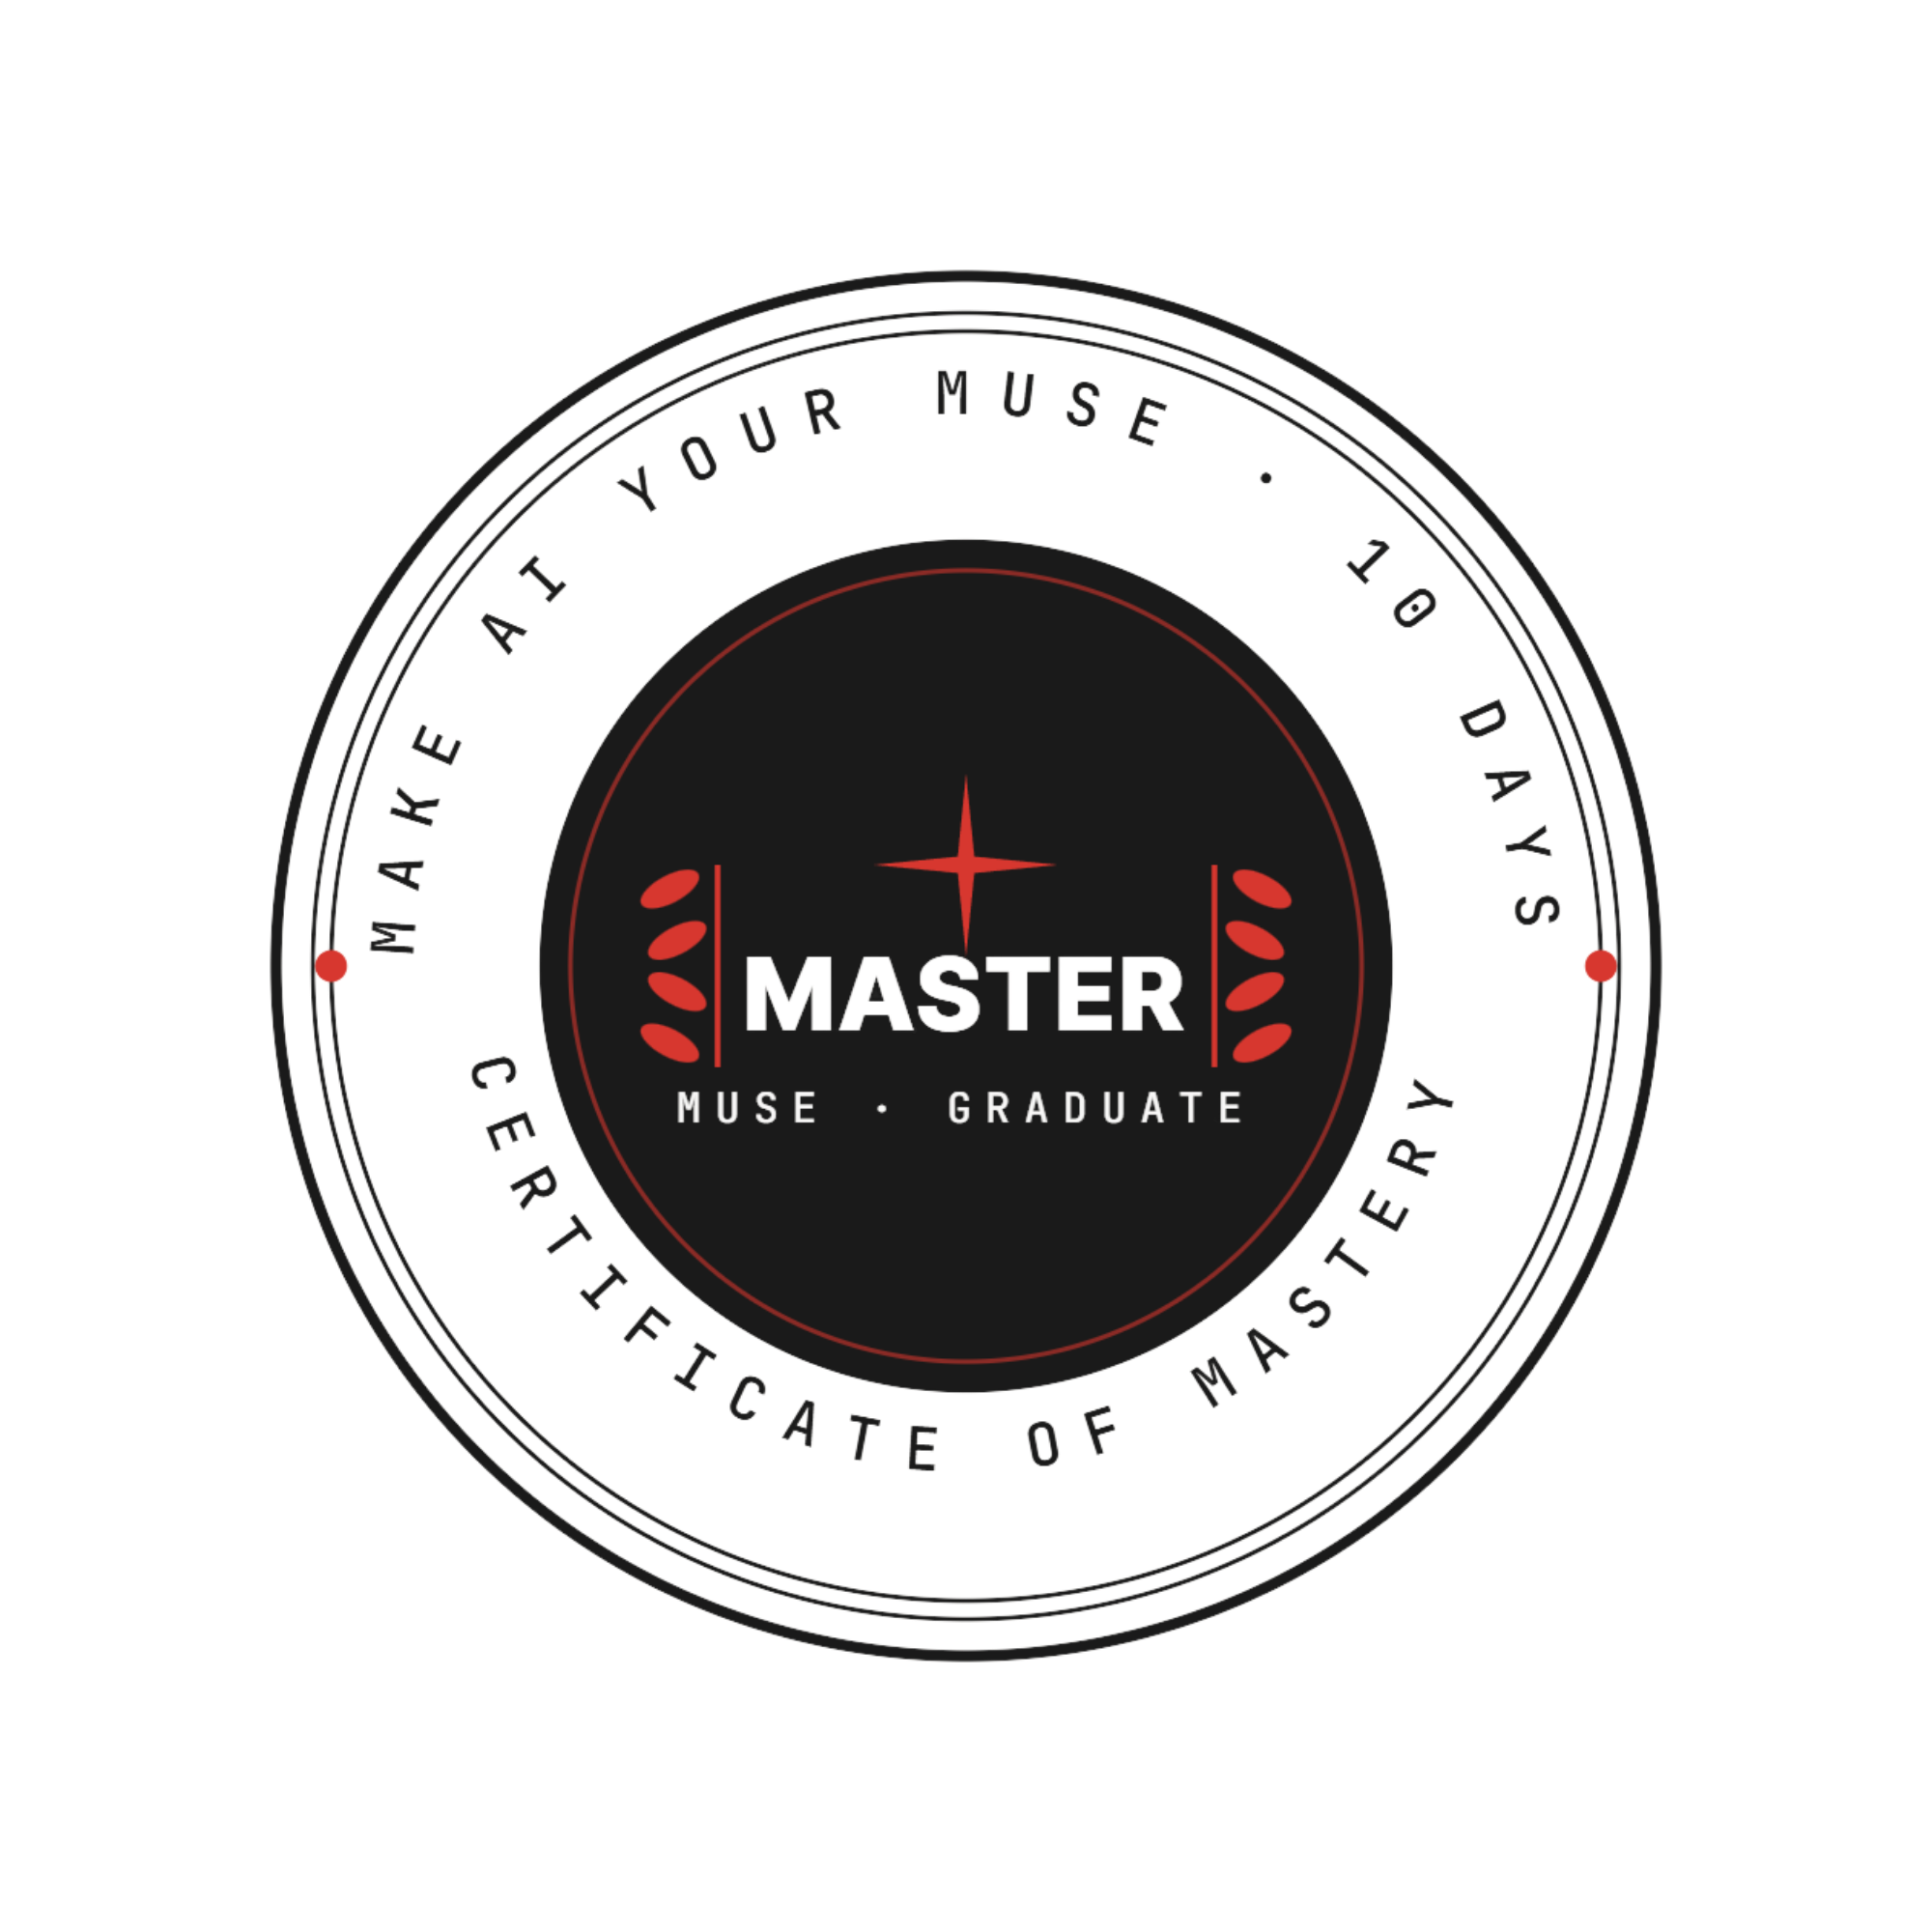
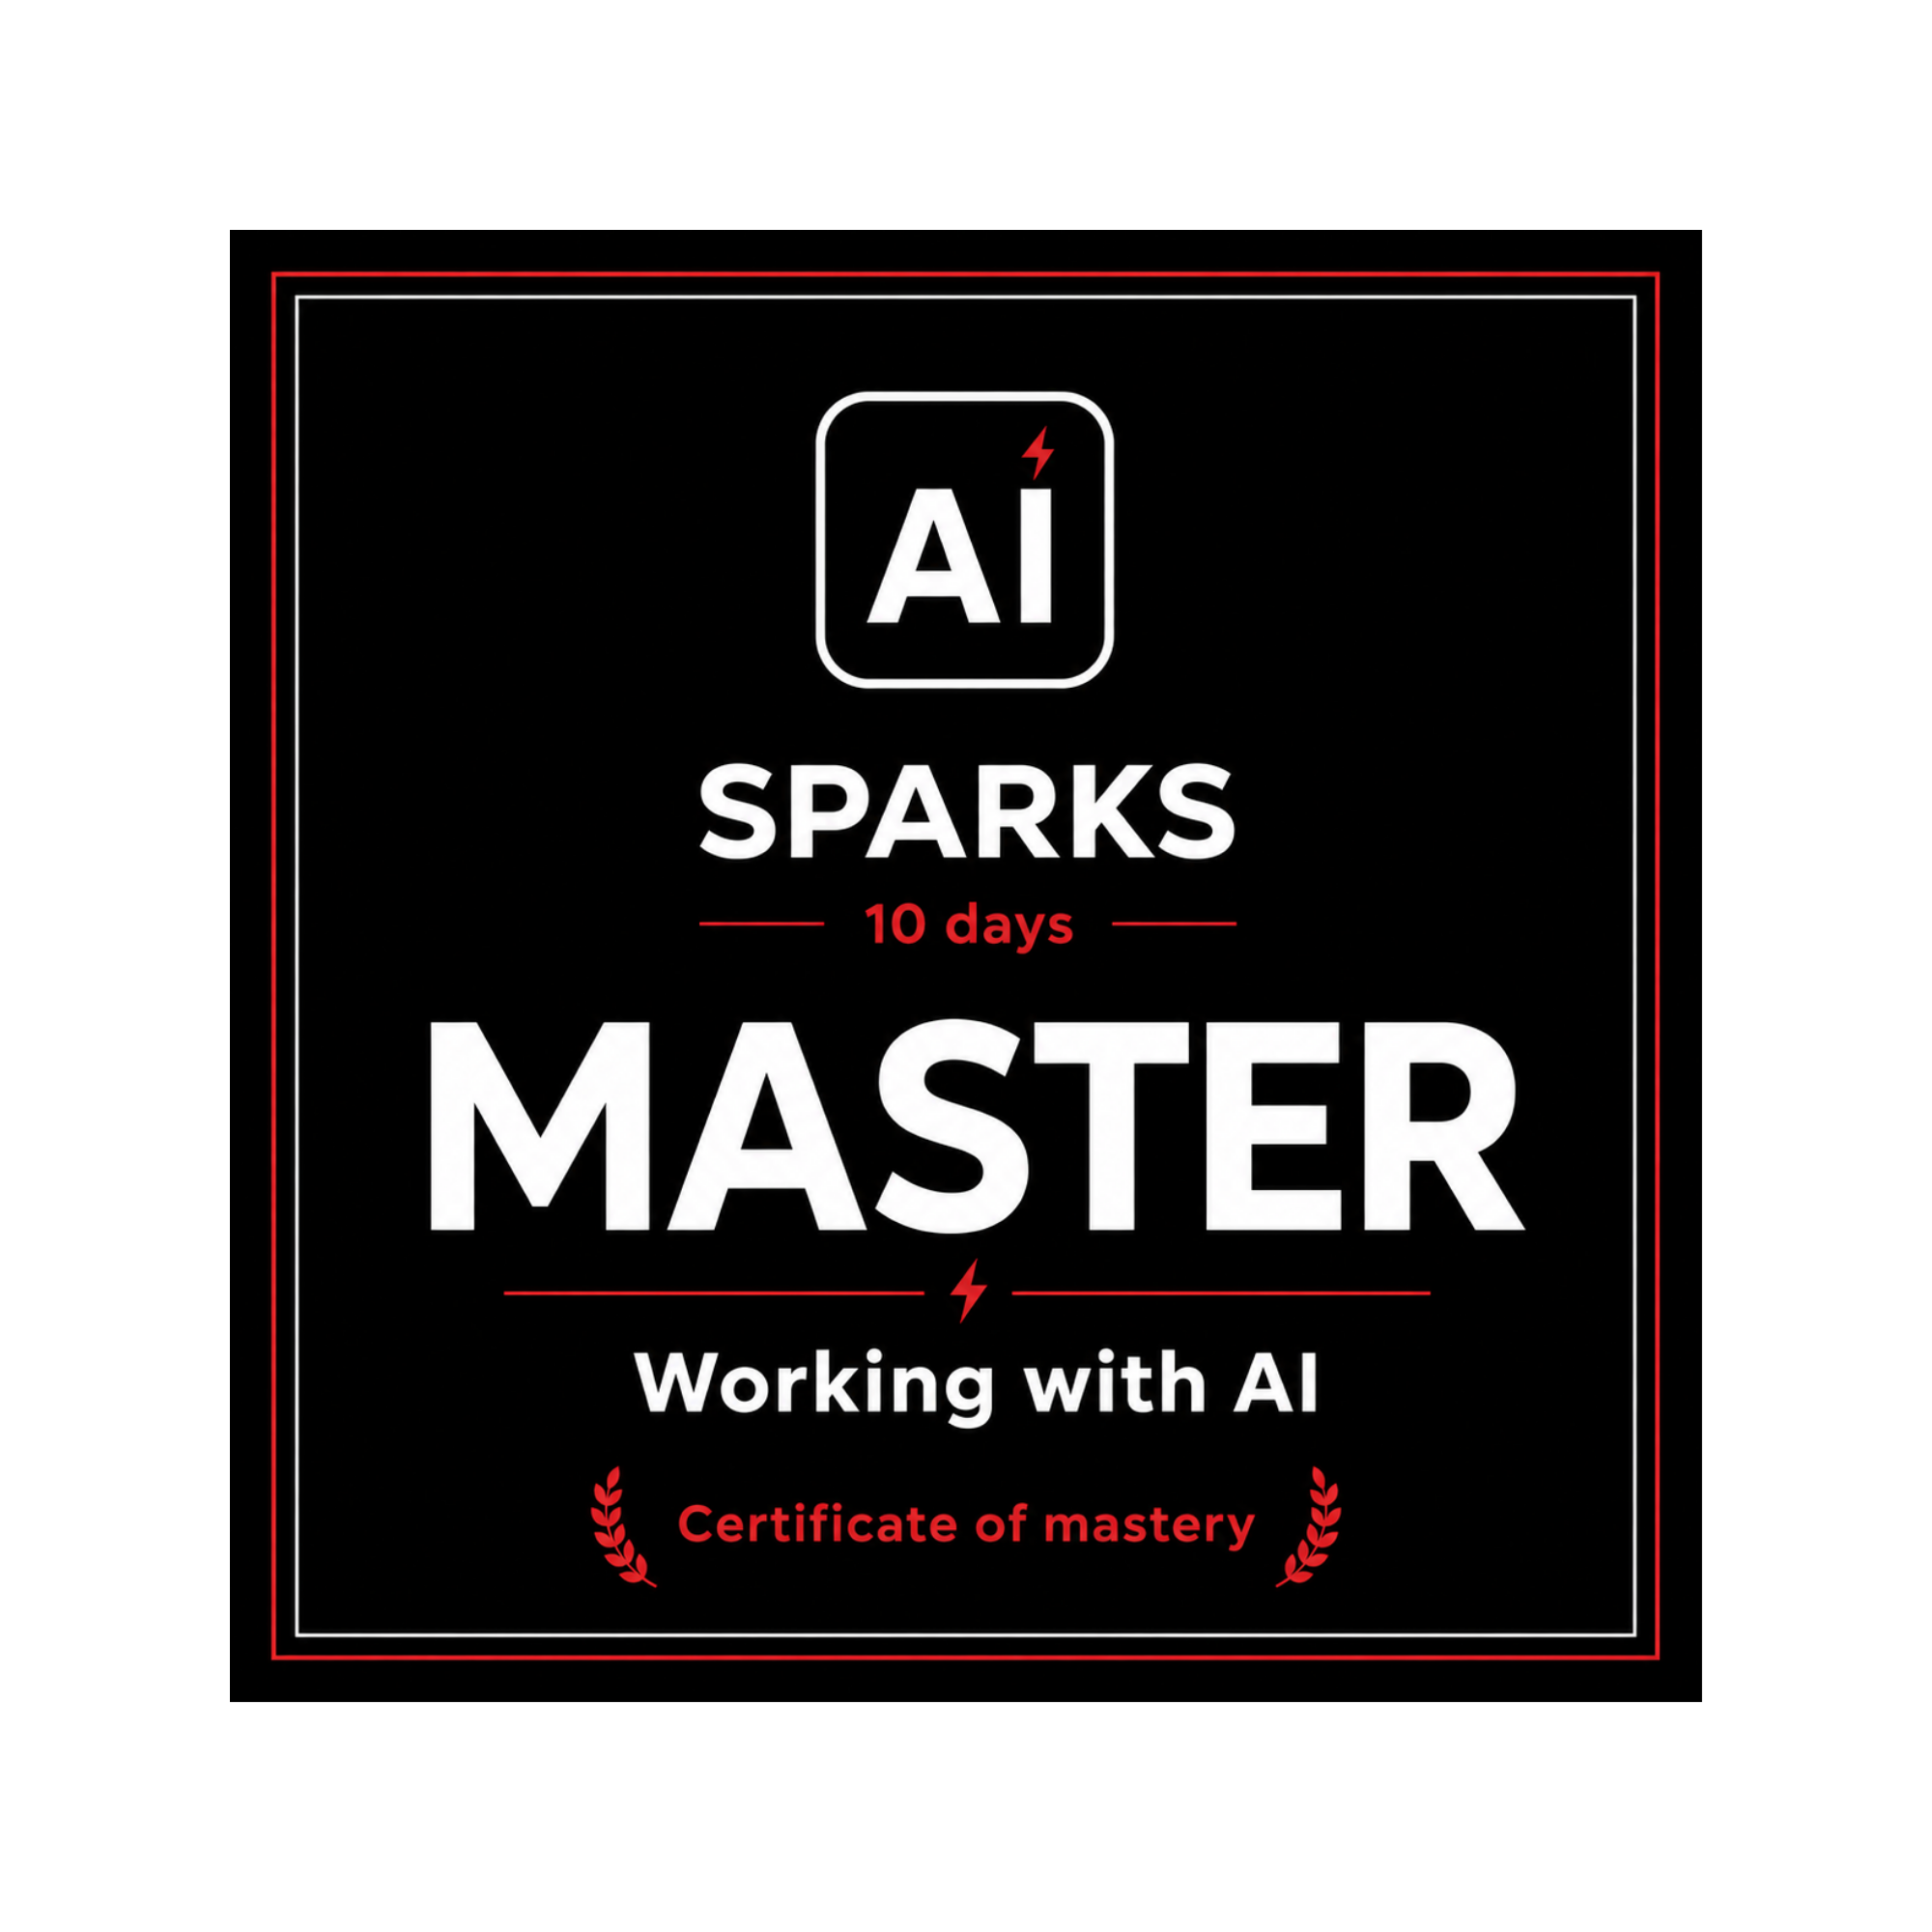
enroll bug fix - minor visual changes fix

diff --git a/src/app/api/enroll/verify-otp/route.ts b/src/app/api/enroll/verify-otp/route.ts
@@ -34,7 +34,7 @@ export async function POST(req: NextRequest) {
     );
   }
 
-  const hasPhone = enrollment.phone && enrollment.phone.trim().length > 0;
+  const hasPhone = !!(enrollment.phone && enrollment.phone.trim().length > 0);
 
   // --- Validate email OTP ---
 
@@ -126,7 +126,7 @@ export async function POST(req: NextRequest) {
 
   // --- Both valid — mark as verified ---
 
-  await supabase
+  const { error: updateError } = await supabase
     .from("pending_enrollments")
     .update({
       status: "verified",
@@ -141,6 +141,14 @@ export async function POST(req: NextRequest) {
       whatsapp_reminders: hasPhone && !!whatsappOtp,
     })
     .eq("id", enrollment.id);
+
+  if (updateError) {
+    console.error("Failed to update enrollment status:", updateError);
+    return NextResponse.json(
+      { ok: false, error: "Verification failed. Try again." },
+      { status: 500 }
+    );
+  }
 
   return NextResponse.json({ ok: true });
 }

diff --git a/src/app/api/enroll/create-checkout/route.ts b/src/app/api/enroll/create-checkout/route.ts
@@ -2,10 +2,19 @@ import { NextRequest, NextResponse } from "next/server";
 import Stripe from "stripe";
 import { supabase } from "@/lib/supabase";
 
-const stripe = new Stripe(process.env.STRIPE_SECRET_KEY!);
 const APP_URL = process.env.NEXT_PUBLIC_APP_URL!;
 
 export async function POST(req: NextRequest) {
+
+  if (!process.env.STRIPE_SECRET_KEY) {
+    return NextResponse.json({ ok: false, error: "Stripe not configured." }, { status: 500 });
+  }
+  if (!process.env.STRIPE_PRICE_ID) {
+    return NextResponse.json({ ok: false, error: "Price ID not configured." }, { status: 500 });
+  }
+
+  const stripe = new Stripe(process.env.STRIPE_SECRET_KEY);
+  
   const body = await req.json();
   const { email } = body;
 

diff --git a/src/proxy.ts b/src/proxy.ts
@@ -53,8 +53,7 @@ export async function proxy(req: NextRequest) {
   }
 
   return NextResponse.next();
-}
 
-export const config = {
+}export const config = {
   matcher: ["/((?!_next/static|_next/image|favicon.ico).*)"],
 };

diff --git a/src/app/capstone/page.tsx b/src/app/capstone/page.tsx
@@ -8,7 +8,7 @@ export default async function CapstonePage() {
   const { participant } = await getParticipant();
 
   // Lock capstone until all 10 days are marked done
-  if (participant.daysComplete.length < 10) {
+  if ((participant.daysComplete ?? []).length < 10) {
     redirect("/progress");
   }
 

diff --git a/src/components/certificate-pdf.tsx b/src/components/certificate-pdf.tsx
@@ -343,7 +343,7 @@ export function CertificatePDF({
 
           {/* Centre — verification */}
           <View style={s.centerVerify}>
-            <Text style={s.verifyUrl}>muse.bryancassady.com/verify</Text>
+            <Text style={s.verifyUrl}>sparks.bryancassady.com/verify</Text>
             <Text style={s.verifyCode}>{verificationCode}</Text>
           </View>
 